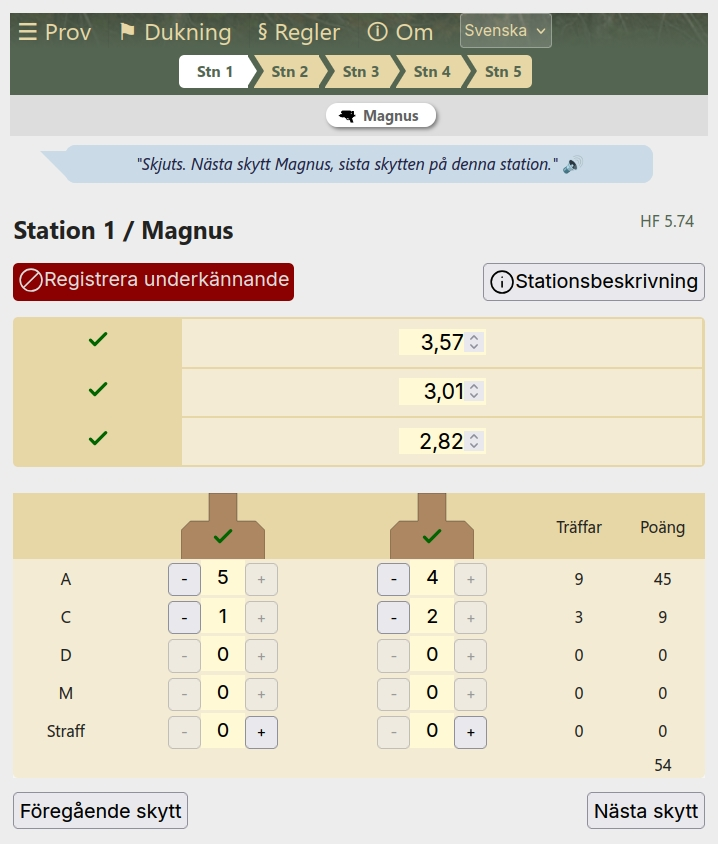
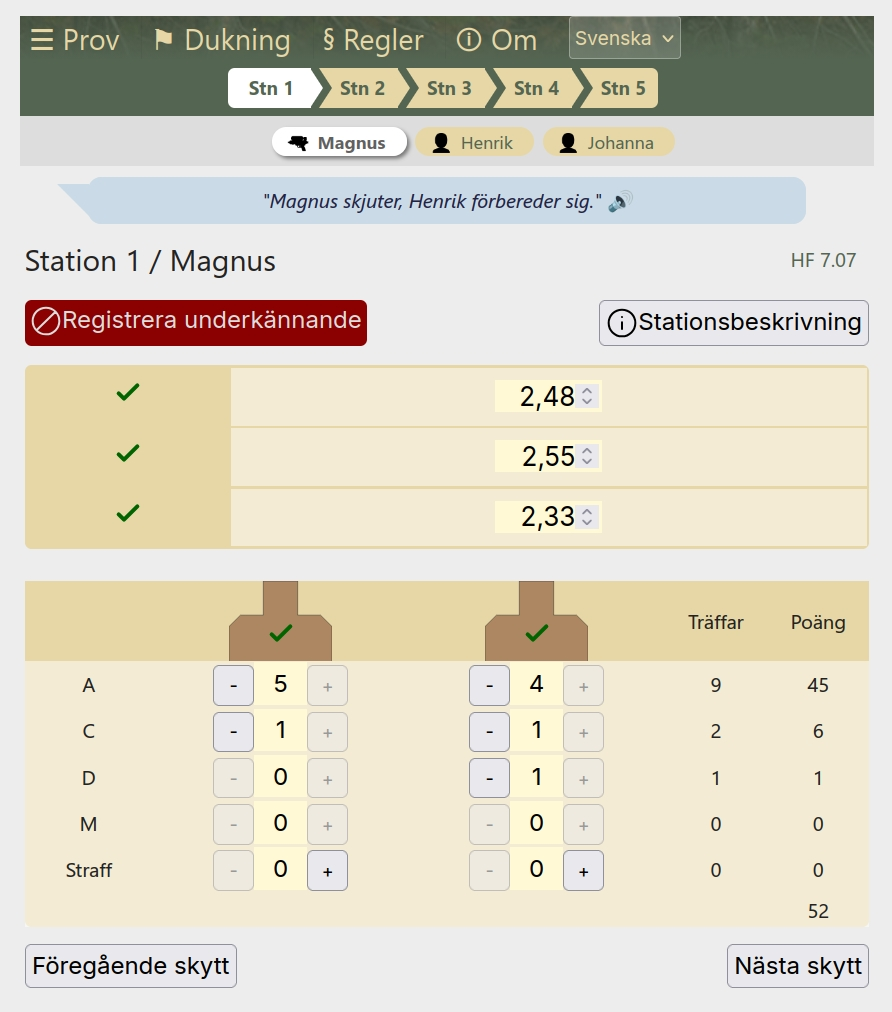
Updates

diff --git a/index.html b/index.html
@@ -38,7 +38,7 @@
     />
     <meta name="apple-mobile-web-app-title" content="SRA-test" />
     <meta name="mobile-web-app-capable" content="yes" />
-    <script type="module" crossorigin src="/sra-test/assets/index-CPJc7QV-.js"></script>
+    <script type="module" crossorigin src="/sra-test/assets/index-C03y6Sp7.js"></script>
     <link rel="modulepreload" crossorigin href="/sra-test/assets/vue.runtime.esm-bundler-bwlOp816.js">
     <link rel="stylesheet" crossorigin href="/sra-test/assets/index-C89M0q-G.css">
   <link rel="manifest" href="/sra-test/manifest.webmanifest"><script id="vite-plugin-pwa:register-sw" src="/sra-test/registerSW.js"></script></head>

diff --git a/sw.js b/sw.js
@@ -1,1 +1,1 @@
-if(!self.define){let e,s={};const i=(i,n)=>(i=new URL(i+".js",n).href,s[i]||new Promise(s=>{if("document"in self){const e=document.createElement("script");e.src=i,e.onload=s,document.head.appendChild(e)}else e=i,importScripts(i),s()}).then(()=>{let e=s[i];if(!e)throw new Error(`Module ${i} didn’t register its module`);return e}));self.define=(n,r)=>{const l=e||("document"in self?document.currentScript.src:"")||location.href;if(s[l])return;let u={};const a=e=>i(e,l),c={module:{uri:l},exports:u,require:a};s[l]=Promise.all(n.map(e=>c[e]||a(e))).then(e=>(r(...e),u))}}define(["./workbox-9c191d2f"],function(e){"use strict";self.skipWaiting(),e.clientsClaim(),e.precacheAndRoute([{url:"sra-test-sv.pdf",revision:"b880b2af77debac9dac506279a8ec7de"},{url:"sra-test-fi.pdf",revision:"1fb558918f7ad08a25626cb5fb4d28db"},{url:"registerSW.js",revision:"049bcff1cf46b04375f883c23a8516b3"},{url:"pwa-64x64.png",revision:"91633c0d435700cf77242e10242c8e85"},{url:"pwa-512x512.png",revision:"4078fbb4e91aa87b8f5ce9191a45809f"},{url:"pwa-192x192.png",revision:"d5d5c905607b817ab19bbb9347f37ff6"},{url:"ogpreview.jpg",revision:"fc24236f2c745e10fc7675896dc95480"},{url:"maskable-icon-512x512.png",revision:"ddc82ea8ee9d634d6a40c20dbc794b5c"},{url:"logo.svg",revision:"cb6ad7fc66d0a06dfad0f578d4817add"},{url:"index.html",revision:"3764322942a81f201e3f331cdbd7703a"},{url:"favicon.ico",revision:"b64d3c1b50d98efd3849d1c66ff039c7"},{url:"apple-touch-icon-180x180.png",revision:"3c0ce29b3c58b6268644e48c41513e87"},{url:"404.html",revision:"4460b267d1e1589f5a1730eee84fbcd2"},{url:"assets/vue.runtime.esm-bundler-bwlOp816.js",revision:null},{url:"assets/tausta-jjP88UmR.jpg",revision:null},{url:"assets/pahvitaulu2024-L1Xl53-n.png",revision:null},{url:"assets/pahvitaulu-dTEIVQzu.png",revision:null},{url:"assets/metsa-DyVxeqPj.jpg",revision:null},{url:"assets/ipsc-metric-target-k-d8dL_U.png",revision:null},{url:"assets/index-CPJc7QV-.js",revision:null},{url:"assets/index-C89M0q-G.css",revision:null},{url:"assets/SafetyView-D0ZdUjID.js",revision:null},{url:"assets/SafetyView-C1_RO3qE.css",revision:null},{url:"assets/RulesView-hYOm8xXp.css",revision:null},{url:"assets/RulesView-Ce-n2SEb.js",revision:null},{url:"assets/RangeSetupView-Ds7douf2.css",revision:null},{url:"assets/RangeSetupView-8Ybmr7b2.js",revision:null},{url:"assets/AboutView-tAki_hCy.css",revision:null},{url:"assets/AboutView-AnqpVYr4.js",revision:null},{url:"assets/9mm-Be0D6dVl.jpg",revision:null},{url:"maskable-icon-512x512.png",revision:"ddc82ea8ee9d634d6a40c20dbc794b5c"},{url:"pwa-192x192.png",revision:"d5d5c905607b817ab19bbb9347f37ff6"},{url:"pwa-512x512.png",revision:"4078fbb4e91aa87b8f5ce9191a45809f"},{url:"pwa-64x64.png",revision:"91633c0d435700cf77242e10242c8e85"},{url:"manifest.webmanifest",revision:"0e42db581dccec5444b74e4bfd8e2ed4"}],{}),e.cleanupOutdatedCaches(),e.registerRoute(new e.NavigationRoute(e.createHandlerBoundToURL("index.html")))});
+if(!self.define){let e,s={};const i=(i,n)=>(i=new URL(i+".js",n).href,s[i]||new Promise(s=>{if("document"in self){const e=document.createElement("script");e.src=i,e.onload=s,document.head.appendChild(e)}else e=i,importScripts(i),s()}).then(()=>{let e=s[i];if(!e)throw new Error(`Module ${i} didn’t register its module`);return e}));self.define=(n,r)=>{const l=e||("document"in self?document.currentScript.src:"")||location.href;if(s[l])return;let u={};const a=e=>i(e,l),o={module:{uri:l},exports:u,require:a};s[l]=Promise.all(n.map(e=>o[e]||a(e))).then(e=>(r(...e),u))}}define(["./workbox-9c191d2f"],function(e){"use strict";self.skipWaiting(),e.clientsClaim(),e.precacheAndRoute([{url:"sra-test-sv.pdf",revision:"b880b2af77debac9dac506279a8ec7de"},{url:"sra-test-fi.pdf",revision:"1fb558918f7ad08a25626cb5fb4d28db"},{url:"registerSW.js",revision:"049bcff1cf46b04375f883c23a8516b3"},{url:"pwa-64x64.png",revision:"91633c0d435700cf77242e10242c8e85"},{url:"pwa-512x512.png",revision:"4078fbb4e91aa87b8f5ce9191a45809f"},{url:"pwa-192x192.png",revision:"d5d5c905607b817ab19bbb9347f37ff6"},{url:"ogpreview.jpg",revision:"f60b46d38e84c59879eea8bdca38b7d5"},{url:"maskable-icon-512x512.png",revision:"ddc82ea8ee9d634d6a40c20dbc794b5c"},{url:"logo.svg",revision:"cb6ad7fc66d0a06dfad0f578d4817add"},{url:"index.html",revision:"96e9ced7fa7b9f390bf2478811f7f253"},{url:"favicon.ico",revision:"b64d3c1b50d98efd3849d1c66ff039c7"},{url:"apple-touch-icon-180x180.png",revision:"3c0ce29b3c58b6268644e48c41513e87"},{url:"404.html",revision:"4460b267d1e1589f5a1730eee84fbcd2"},{url:"assets/vue.runtime.esm-bundler-bwlOp816.js",revision:null},{url:"assets/tausta-jjP88UmR.jpg",revision:null},{url:"assets/pahvitaulu2024-L1Xl53-n.png",revision:null},{url:"assets/pahvitaulu-dTEIVQzu.png",revision:null},{url:"assets/metsa-DyVxeqPj.jpg",revision:null},{url:"assets/ipsc-metric-target-k-d8dL_U.png",revision:null},{url:"assets/index-C89M0q-G.css",revision:null},{url:"assets/index-C03y6Sp7.js",revision:null},{url:"assets/SafetyView-poZ_AIIo.js",revision:null},{url:"assets/SafetyView-C1_RO3qE.css",revision:null},{url:"assets/RulesView-hYOm8xXp.css",revision:null},{url:"assets/RulesView-B8ZxTndl.js",revision:null},{url:"assets/RangeSetupView-DzTf9MIs.js",revision:null},{url:"assets/RangeSetupView-Ds7douf2.css",revision:null},{url:"assets/AboutView-tAki_hCy.css",revision:null},{url:"assets/AboutView-R_b3WRhN.js",revision:null},{url:"assets/9mm-Be0D6dVl.jpg",revision:null},{url:"maskable-icon-512x512.png",revision:"ddc82ea8ee9d634d6a40c20dbc794b5c"},{url:"pwa-192x192.png",revision:"d5d5c905607b817ab19bbb9347f37ff6"},{url:"pwa-512x512.png",revision:"4078fbb4e91aa87b8f5ce9191a45809f"},{url:"pwa-64x64.png",revision:"91633c0d435700cf77242e10242c8e85"},{url:"manifest.webmanifest",revision:"0e42db581dccec5444b74e4bfd8e2ed4"}],{}),e.cleanupOutdatedCaches(),e.registerRoute(new e.NavigationRoute(e.createHandlerBoundToURL("index.html")))});

diff --git a/assets/AboutView-R_b3WRhN.js b/assets/AboutView-R_b3WRhN.js
@@ -1,0 +1,1 @@
+import{E as e,Y as t,_ as n,h as r,p as i,q as a,u as o}from"./vue.runtime.esm-bundler-bwlOp816.js";import{t as s}from"./index-C03y6Sp7.js";var c={class:`about`},l={href:`https://github.com/brutusmcforce/sra-test`},u=n({__name:`AboutView`,setup(n){let{t:u}=s();return(n,s)=>(e(),i(`div`,c,[o(`h1`,null,t(a(u)(`about.heading`)),1),o(`p`,null,t(a(u)(`about.description`)),1),o(`h2`,null,t(a(u)(`about.privacyHeading`)),1),o(`p`,null,t(a(u)(`about.privacyBody`)),1),o(`h2`,null,t(a(u)(`about.feedbackHeading`)),1),o(`p`,null,[r(t(a(u)(`about.feedbackBody`)),1),s[0]||=o(`a`,{href:`mailto:[email redacted]`},`[email redacted]`,-1),s[1]||=r(`. `,-1)]),o(`p`,null,[o(`a`,l,t(a(u)(`about.githubLink`)),1)]),o(`h2`,null,t(a(u)(`about.creditsHeading`)),1),o(`p`,null,[r(t(a(u)(`about.creditsBody`)),1),s[2]||=o(`a`,{href:`https://github.com/mpolla/sra-koe`,target:`_blank`,rel:`noopener`},`github.com/mpolla/sra-koe`,-1),s[3]||=r(`. `,-1)])]))}});export{u as default};

diff --git a/assets/RangeSetupView-DzTf9MIs.js b/assets/RangeSetupView-DzTf9MIs.js
@@ -1,0 +1,1 @@
+import{E as e,O as t,Y as n,_ as r,m as i,p as a,s as o,u as s}from"./vue.runtime.esm-bundler-bwlOp816.js";import{n as c}from"./index-C03y6Sp7.js";var l={class:`range-setup`},u={class:`exercises`},d={class:`n`},f={class:`boxes-cell`},p={class:`note`},m=c(r({__name:`RangeSetupView`,setup(r){let c=[{n:`1`,label:`10 m`,boxes:`E`,note:`Stående grundställning.`},{n:`2`,label:`10 m`,boxes:`E`,note:`Vändningar 180° / 90°.`},{n:`3`,label:`10 m`,boxes:`A · B`,note:`Framryckning mellan boxar.`},{n:`4`,label:`20 → 15 → 10 m`,boxes:`C · D · E`,note:`Stående, knästående, liggande.`},{n:`5`,label:`Gevär/Karbin 20 → 15 m · Pistol 10 → 15 m`,boxes:`F/G · D (gevär) · E · D (pistol)`,note:`Valbar som pistol eller gevär/karbin.`}];return(r,m)=>(e(),a(`div`,l,[m[1]||=i(`<h1 data-v-85e062de>Dukningsinstruktion</h1><p class="source" data-v-85e062de>SRA / TTS Skjutprov</p><div class="facts" data-v-85e062de><p data-v-85e062de><strong data-v-85e062de>Tavla:</strong> IPSC metric.</p><p data-v-85e062de> Dukas på en <strong data-v-85e062de>höjd av 1,5 m</strong> och ett <strong data-v-85e062de>avstånd av 1,1 m</strong> mellan tavlorna. </p><p data-v-85e062de>Skjutbox ska vara <strong data-v-85e062de>1 × 1 m</strong>.</p><p data-v-85e062de> Mät från <strong data-v-85e062de>centrum mellan tavlorna</strong> och märk upp vid <strong data-v-85e062de>20, 15 och 10 m</strong> skjutavstånd. Märk upp boxar enligt skiss. </p><p data-v-85e062de> Vid <strong data-v-85e062de>övning 4</strong> gäller inte bakre begränsningslinje vid 10 m vid liggande skjutställning. </p></div><div class="diagram" aria-hidden="true" data-v-85e062de><div class="targets" data-v-85e062de><div class="target-col" data-v-85e062de><img class="target" src="/sra-test/assets/ipsc-metric-target-k-d8dL_U.png" alt="" data-v-85e062de></div><div class="spacer" data-v-85e062de><span class="dim" data-v-85e062de>1,1 m</span></div><div class="target-col" data-v-85e062de><img class="target" src="/sra-test/assets/ipsc-metric-target-k-d8dL_U.png" alt="" data-v-85e062de></div></div><div class="row" data-v-85e062de><span class="dist" data-v-85e062de>10 m</span><div class="boxes" data-v-85e062de><div class="box" data-v-85e062de>A</div><div class="gap" data-v-85e062de>1 m</div><div class="box main" data-v-85e062de>E</div><div class="gap" data-v-85e062de>1 m</div><div class="box" data-v-85e062de>B</div></div><span class="uses" data-v-85e062de>Övn 1, 2, 4, 5\xA0P (E) · Övn 3 (A/B)</span></div><div class="row" data-v-85e062de><span class="dist" data-v-85e062de>15 m</span><div class="boxes" data-v-85e062de><div class="box main" data-v-85e062de>D</div></div><span class="uses" data-v-85e062de>Övn 4 · Övn 5 (P/G/K)</span></div><div class="row" data-v-85e062de><span class="dist" data-v-85e062de>20 m</span><div class="boxes" data-v-85e062de><div class="box" data-v-85e062de>F</div><div class="box main" data-v-85e062de>C</div><div class="box" data-v-85e062de>G</div></div><span class="uses" data-v-85e062de>Övn 4 (C) · Övn 5 G/K (F/G)</span></div></div><h2 data-v-85e062de>Övningar</h2>`,5),s(`table`,u,[m[0]||=s(`thead`,null,[s(`tr`,null,[s(`th`,null,`Övn`),s(`th`,null,`Avstånd`),s(`th`,null,`Boxar`),s(`th`)])],-1),s(`tbody`,null,[(e(),a(o,null,t(c,e=>s(`tr`,{key:e.n},[s(`td`,d,n(e.n),1),s(`td`,null,n(e.label),1),s(`td`,f,n(e.boxes),1),s(`td`,p,n(e.note),1)])),64))])]),m[2]||=s(`p`,{class:`footnote`},` Observera att pekvinklar är 90° från skytten, alternativt rakt upp eller rakt ner om inte annat anges av aktuell skjutbaneinstruktion. `,-1)]))}}),[[`__scopeId`,`data-v-85e062de`]]);export{m as default};

diff --git a/assets/SafetyView-poZ_AIIo.js b/assets/SafetyView-poZ_AIIo.js
@@ -1,0 +1,1 @@
+import{E as e,N as t,Y as n,_ as r,h as i,p as a,q as o,r as s,u as c}from"./vue.runtime.esm-bundler-bwlOp816.js";import{r as l,t as u}from"./index-C03y6Sp7.js";var d={class:`safety`},f={class:`content`},p={class:`handling-rules`},m={class:`safety-checkbox`},h={for:`checkbox`},g={class:`actions continue`},_=[`disabled`],v=r({__name:`SafetyView`,setup(r){let v=l(),{t:y}=u();return(r,l)=>(e(),a(`main`,d,[c(`div`,f,[c(`h1`,null,n(o(y)(`safety.heading`)),1),c(`p`,null,n(o(y)(`safety.intro`)),1),c(`ol`,p,[c(`li`,null,[c(`b`,null,n(o(y)(`safety.rule1Bold`)),1),i(`. `+n(o(y)(`safety.rule1Body`)),1)]),c(`li`,null,[i(n(o(y)(`safety.rule2Prefix`)),1),c(`b`,null,n(o(y)(`safety.rule2Bold`)),1),i(`. `+n(o(y)(`safety.rule2Body`)),1)]),c(`li`,null,[i(n(o(y)(`safety.rule3Prefix`)),1),c(`b`,null,n(o(y)(`safety.rule3Bold`)),1),i(`. `+n(o(y)(`safety.rule3Body`)),1)]),c(`li`,null,[c(`b`,null,n(o(y)(`safety.rule4Bold`)),1),i(`. `+n(o(y)(`safety.rule4Body`)),1)])]),c(`div`,m,[t(c(`input`,{"onUpdate:modelValue":l[0]||=e=>o(v).safetyTrainingCompleted=e,type:`checkbox`,id:`safety-acknowledgment`},null,512),[[s,o(v).safetyTrainingCompleted]]),c(`label`,h,n(o(y)(`safety.acknowledgment`)),1)]),c(`div`,g,[c(`button`,{class:`action`,disabled:!o(v).safetyTrainingCompleted,onClick:l[1]||=e=>{o(v).safetyTrainingCompleted=!0,r.$router.push(`/`)}},n(o(y)(`safety.continue`)),9,_)])])]))}});export{v as default};